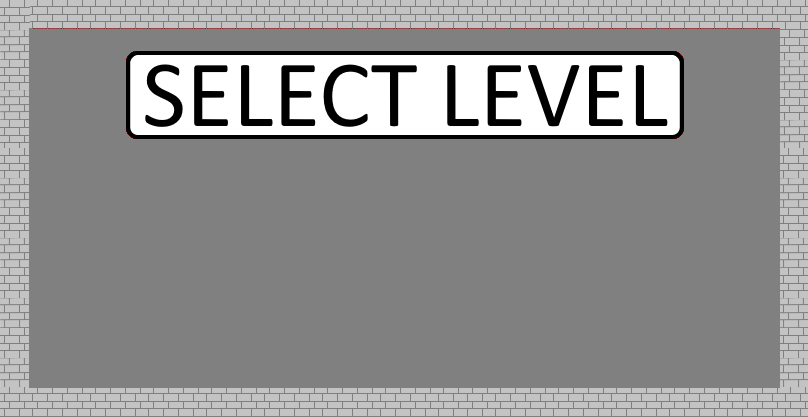
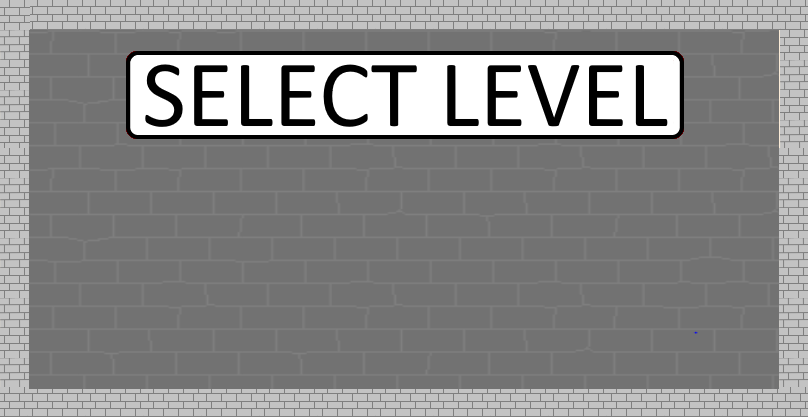
Level Select now displays numbers for unlocked levels. Still need to change thumbnails for level 6-10.

diff --git a/gravitas/levelSelect.js b/gravitas/levelSelect.js
@@ -1,27 +1,35 @@
 let LevelSelect = function (game, gameState) {
     
     let thumbCols = 2,
-        thumbRows = 6,
+        thumbRows = 5,
         thumbWidth = 96,
         thumbHeight = 96,
-        thumbSpacing = 10,
+        thumbSpacing = 20,
         levelWidth = thumbWidth * thumbRows + thumbSpacing * (thumbRows - 1),
         levelHeight = thumbHeight * thumbCols + thumbSpacing * (thumbCols - 1),
         playerDataList = [],
-        buttons;
+        buttons,
+        levelCount;
+    
  
     function loadLevelSelect() {
-        game.load.image('lockedThumbnail', 'assets/art/locked.png', thumbHeight, thumbWidth);
-        game.load.image('unlockedThumbnail', 'assets/art/unlocked.png', thumbHeight, thumbWidth);
+        let levelList = game.cache.getText('levelList').split('\n');
+        levelCount = levelList.length;
+        
+        game.load.image('lockedThumbnail', 'assets/art/levelSelectImages/locked.png', thumbHeight, thumbWidth);
         game.load.image('levelSelectBackground', 'assets/art/LevelSelectBackground.png');
+        
+        // level thumbnails - would rather use spritesheet
+        for (let i = 1; i < levelCount; i++) { 
+            game.load.image('thumbnail' + i, 'assets/art/levelSelectImages/thumbnail' + i + '.png', thumbHeight, thumbWidth);
+        }
     } 
     
     function updateFromLocalStorage() {
-        let levelList = game.cache.getText('levelList').split('\n');
         playerDataList = localStorage.getItem('user_progress');
         if (playerDataList == null) {
             playerDataList = [0];
-            for (let i = 1; i < levelList.length; i++) {
+            for (let i = 1; i < levelCount; i++) {
                 playerDataList[i] = 1;
             }
             localStorage.setItem('user_progress', playerDataList);
@@ -54,17 +62,17 @@ let LevelSelect = function (game, gameState) {
         let associatedLevel = 0;
         for (let i = 0; i < thumbCols; i++) {
             for (let j = 0; j < thumbRows; j++) {
-                if (associatedLevel != playerDataList.length) {
-                    // add lock thumbnail as button
+                if (associatedLevel != levelCount) {
+                    
                     let button;
                     
                     if (playerDataList[associatedLevel] == 0) {
                         // level is unlocked
-                        button = game.add.button(offsetX + j * (thumbWidth + thumbSpacing), offsetY + i * (thumbHeight + thumbSpacing), 'unlockedThumbnail', function(){
+                        button = game.add.button(offsetX + j * (thumbWidth + thumbSpacing), offsetY + i * (thumbHeight + thumbSpacing), 'thumbnail' + (associatedLevel + 1), function(){
                             clearLevel();
                             gameState.setLevel(button.associatedLevel);
                             game.state.start('game');
-                        });
+                        }, this, 0, 0, 0);
                     } else {
                         // level is locked
                         button = game.add.button(offsetX + j * (thumbWidth + thumbSpacing), offsetY + i * (thumbHeight + thumbSpacing), 'lockedThumbnail', function() {
